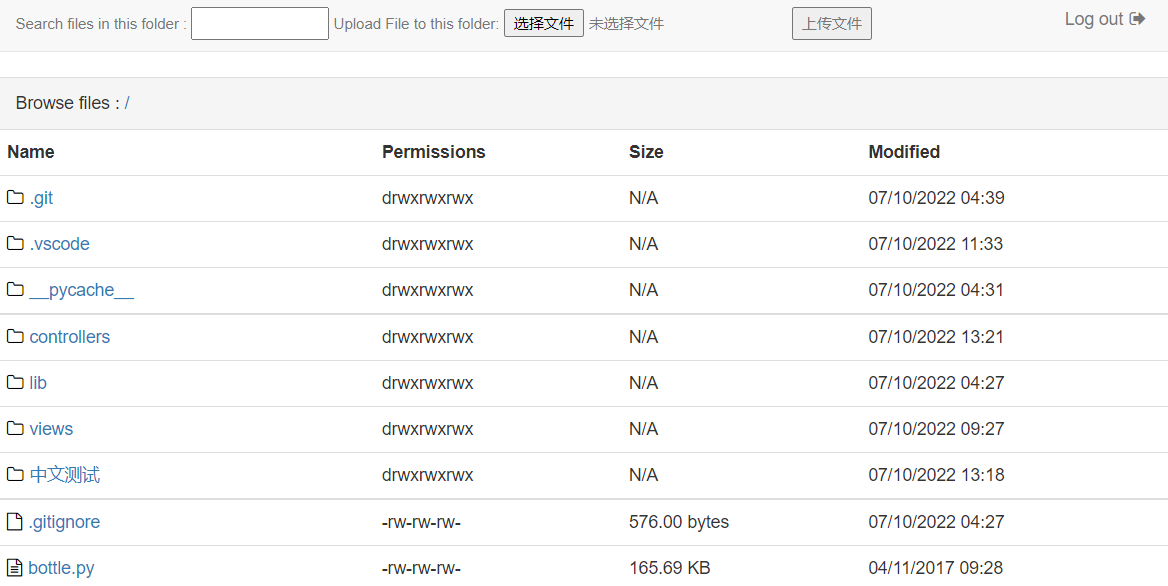
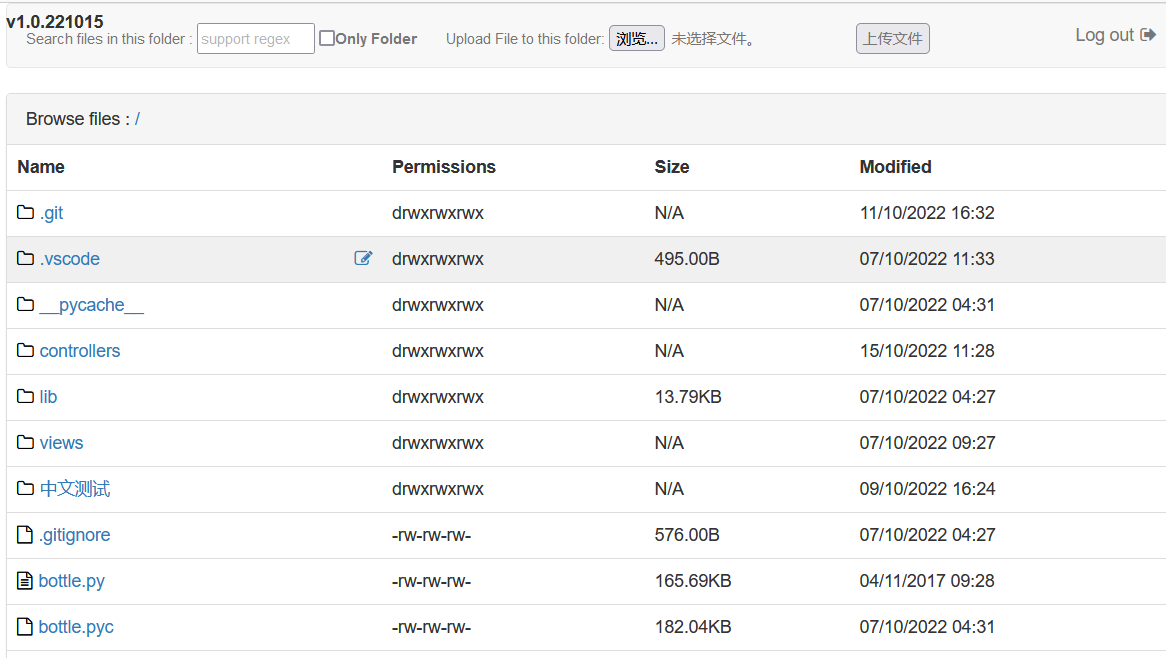
1. add version show 2. modify README 3. just show relative path 4. support search folder name

diff --git a/views/static/js/main.js b/views/static/js/main.js
@@ -156,7 +156,7 @@ $(document).ready(function () {
   });
   // CHANGE NAV link style
   let linkTxt = $('#navlink').html()
-  let arr = linkTxt.split('/');
+  let arr = linkTxt.split(/[\\/]+/);
   let arrLink = ['<a href="?path=/#"> / </a>'];
   let preLink = ''
   for (let k of arr) {
@@ -190,7 +190,7 @@ async function getSize(path, obj) {
   let res = await fetch(`getFolderSize?path=${path}`).then(res => {
     return res.json()
   }).catch(err => {
-    obj.innerHTML = 'search Error!'+err.message
+    obj.innerHTML = 'get Size Error!'+err.message
   })
 
   clearInterval(obj.handle)
@@ -225,7 +225,8 @@ async function searchFiles(path, obj) {
       hint.html('.'.repeat((count++ % maxLen) + 1).padEnd(maxLen, ' '))
     }, 500)
     // search?path=/views/static&key=main
-    let res = await fetch(`search?path=${path}&key=${val}`).then(res => {
+    let  folder = $('#searchFolder').is(':checked')?1:0
+    let res = await fetch(`search?path=${path}&key=${val}&searchFolder=${folder}`).then(res => {
       return res.json()
     }).catch(err => {
       hint.html('search Error!'+err.message)
@@ -239,7 +240,20 @@ async function searchFiles(path, obj) {
         hint.html('Not Found!')
       } else {
         let count = res?.msg?.count??0, max = res?.msg?.max??0;
-        hint.html(`<div style="color:${count>=max?'red':'blue'}">Found ${count}/${max}</div>${res.data.join('<br>')}`)
+        let searchHtml = '';
+        res.data.forEach(x=>{
+          let link = '';
+          if($('#searchFolder').is(':checked'))
+          {
+            link = x
+          }else{
+            let arr = x.split(/[\\/]+/);
+            arr.pop()
+            link = arr.join('/')
+          }
+          searchHtml += `<div><a target="blank" href="?path=/${link}">${x}</a></div>`
+        })
+        hint.html(`<div style="color:${count>=max?'red':'blue'}">Found/Max : ${count}/${max}</div>${searchHtml}`)
       }
 
     }

diff --git a/controllers/main.py b/controllers/main.py
@@ -75,19 +75,31 @@ def search():
 #   path2  = os.sep.join(arr) 
     path = request.GET.get('path')
     current_dir = config.root_path + path
+    searchFolder = request.GET.get('searchFolder')
     val = request.GET.get('key')
     fileList = []
     count = 0
     for d in os.walk(current_dir):  #parent,dirnames,filenames
         if count >= config.max_num_search:
             break
-        # case 2:  
-        for filename in d[2]:
-            path = os.path.join(d[0],filename)
-            if re.search(val, path, re.IGNORECASE):
-                count = count + 1
-                if count <= config.max_num_search:
-                    fileList.append(path)
+        # case 2: 
+        if searchFolder =="1":
+            for filename in d[1]:
+                if re.search(val, filename, re.IGNORECASE):
+                    count = count + 1
+                    if count <= config.max_num_search:
+                        path = os.path.join(d[0],filename)
+                        path = os.path.relpath(path, config.root_path)
+                        fileList.append(path)
+        else:
+            for filename in d[2]:
+                path = os.path.join(d[0],filename)
+                # get relative path for safety
+                path = os.path.relpath(path, config.root_path)
+                if re.search(val, path, re.IGNORECASE):
+                    count = count + 1
+                    if count <= config.max_num_search:
+                        fileList.append(path)
     return dict(data=fileList,msg={"count":count,"max":config.max_num_search})
 
 @route(config.app_dir+'/getFolderSize')

diff --git a/README_zh.md b/README_zh.md
@@ -13,6 +13,13 @@ pyFileManager
 
 默认管理员帐号为 test2/test2 （读写），普通帐号为test/test（只读），可在  `lib\config\config.py`中配置 root_path 为浏览根目录，如果需要大小更小，可删除 views\static\fonts 下除 fontawesome-webfont.woff2 以外的其他文件
 
+#### 用法:
+
+1. 确保安装了Python2 环境
+2. 检查配置文件`lib\config\config.py` 中的参数
+3. 控制台跳转到本程序目录，运行 `python ./server.py`
+4. 打开浏览器，访问 http://127.0.0.1:8083（默认）
+
 #### 功能:
 
 - 支持代理设置

diff --git a/README.md b/README.md
@@ -11,6 +11,15 @@ pyFileManager
 
 A simple web file manager in Python.
 
+![screenshot](screenshot.png)
+
+#### Usage:
+
+1. install python 2.x
+2. check config at `lib\config\config.py`
+3. make cwd(current working directory) is this program , run `python ./server.py`
+4. open the browser and go to the http://127.0.0.1:8083（default）
+
 ---
 
 #### FEATURES :
